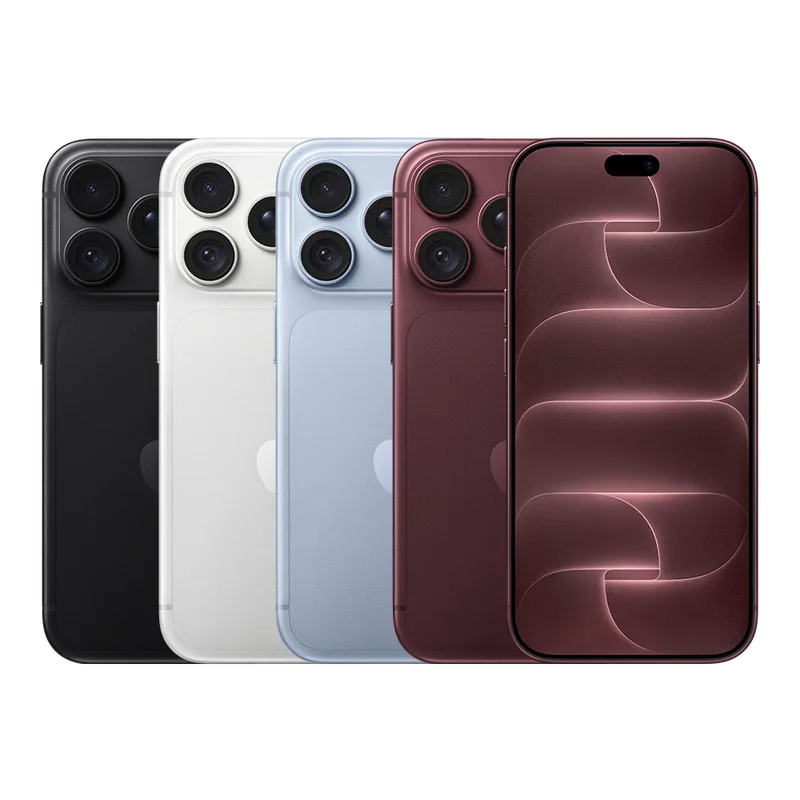
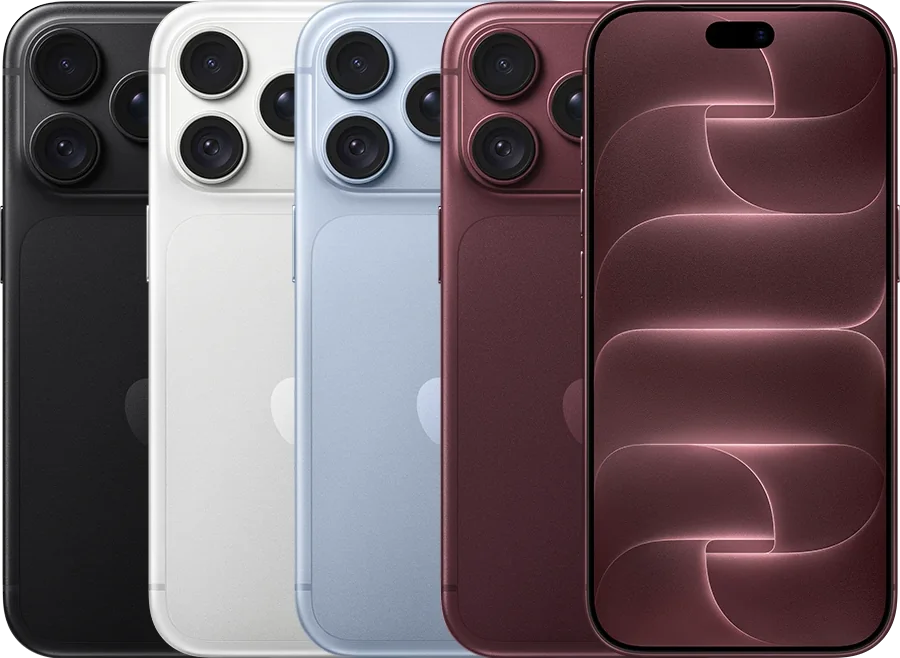
Add Android, MacBook and AirPods photos to Top Tech, even out image sizes
Claude-Session: https://claude.ai/code/session_019W27hkFTZ7KHipsTcEqq8x

diff --git a/assets/base.css b/assets/base.css
@@ -920,3 +920,5 @@ shopify-payment-terms{font-size:13px}
 .image-banner:not(.image-banner--art)::after{background:linear-gradient(180deg,transparent 35%,rgb(0 0 0 / .35) 60%,rgb(0 0 0 / .72))}
 .image-banner:not(.image-banner--art) .image-banner__text{text-shadow:0 1px 12px rgb(0 0 0 / .35)}
 .image-banner:not(.image-banner--art) .image-banner__text .btn{text-shadow:none}
+.tech-card__img{padding-bottom:28px}
+.tech-card__img img{max-height:min(100%,230px);max-width:82%}
